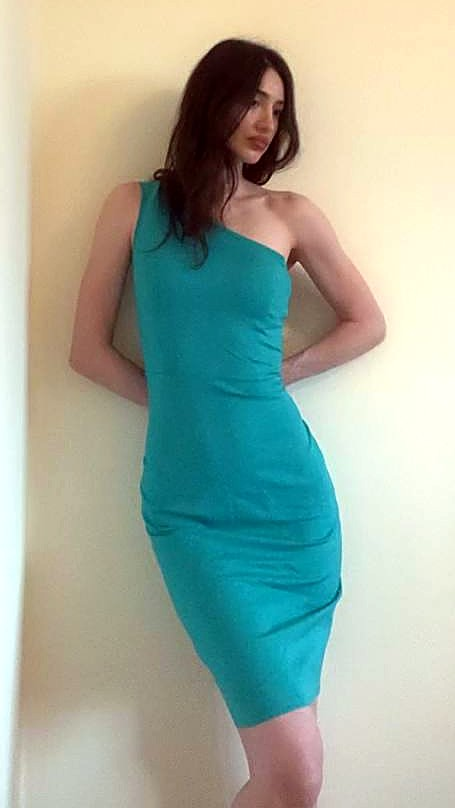
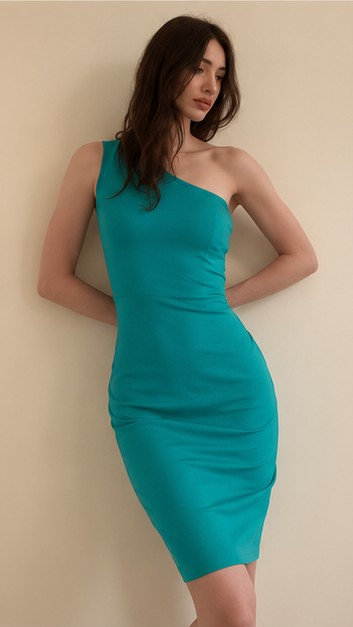
Обновление каталога 04.10.2026 17:49

diff --git a/docs/products.js b/docs/products.js
@@ -516,12 +516,13 @@ window.PRODUCTS = [
    "length": null
   },
   "condition": "новое с биркой",
-  "price": 7000,
+  "price": 8000,
   "old_price": null,
   "photos": [
    "photos/SH-23-1.jpg",
    "photos/SH-23-2.jpg",
-   "photos/SH-23-3.jpg"
+   "photos/SH-23-3.jpg",
+   "photos/SH-23-4.jpg"
   ],
   "note": "",
   "variants": [
